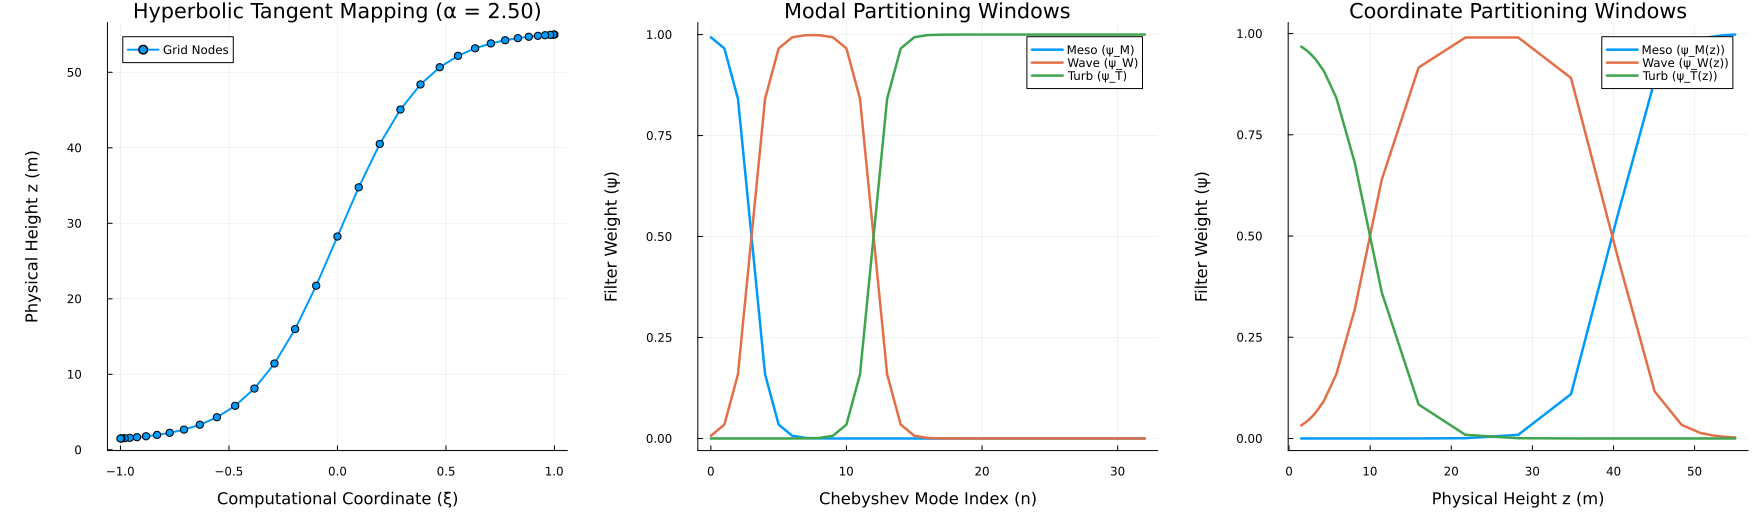
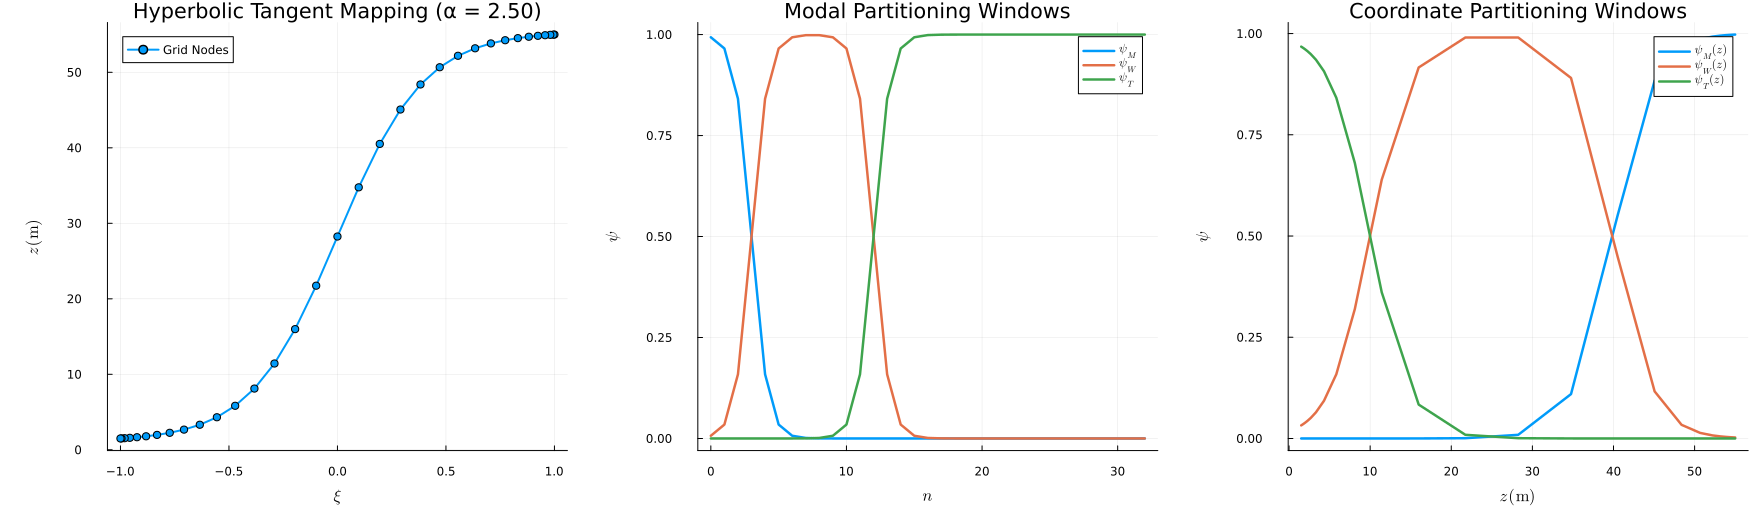
workable

diff --git a/drafts/critique.md b/drafts/critique.md
@@ -1,0 +1,24 @@
+The latest draft of David England’s manuscript—**"Metric-Consistent Spectral Finite Element Decomposition of Stable Boundary Layer Regimes"** (dated June 9, 2026)—represents a significant advancement in mathematical rigor and physical grounding compared to earlier versions. By incorporating feedback from previous critiques, England has transitioned the framework from a diagnostic curve-fitting procedure into a robust computational fluid dynamics (CFD) methodology.
+
+The following critique highlights the strengths of the latest draft and identifies remaining areas where a reviewer or committee member may still probe for further evidence.
+
+### 1. Key Advancements and Strengths
+The latest draft successfully addresses several previously identified "mathematical gaps":
+
+*   **Formalization of $D_{\mathrm{eff}}$ and Ozmidov Scaling:** England has established a direct physical bridge between the information-theoretic **Effective Modal Dimension ($D_{\mathrm{eff}}$)** and the **Ozmidov buoyancy scale ($L_O$)**. He derives a proportionality where $D_{\mathrm{eff}}$ undergoes an "informational collapse" when buoyancy forces restrict physical eddies below the grid's resolution. This provides the "mathematical clincher" needed to justify regime transitions.
+*   **Coordinate-Agnostic Interfacing:** The formal derivation of the **Virtual Tower Interfacing Operator ($\mathcal{P}_{VT}$)** is a major improvement. It mathematically proves that the framework can ingest scattered measurements from 1D towers, 3D LiDAR volumes, and unstructured NWP meshes while preserving the **topological invariance** of spectral signatures like $D_{\mathrm{eff}}$.
+*   **Scale-Invariant Rank Criterion:** Responding to concerns about arbitrary numerical thresholds, the draft now utilizes a **machine-epsilon-relative truncation criterion** ($\epsilon \approx 2.22 \times 10^{-13}$). This ensures that "nullspace modes" (formerly "ghost modes") are removed based on a principled L-curve logic rather than hard-coded values.
+*   **Philosophical Reframing:** The draft has been softened to refer to a "**local one-dimensional Riemannian metric**" rather than claiming the entire boundary layer is a manifold. This avoids unnecessary conflict with differential geometers regarding the absence of higher-dimensional curvature tensors.
+
+### 2. Remaining Vulnerabilities and Critiques
+
+*   **Dimensional Constraint (The "Single Tower" Blindness):** Despite the transition to coordinate-agnostic math, the current analysis remains restricted to a **single tower column**. As such, it cannot directly recover horizontal phase propagation or horizontal coherence length scales of submesoscale motions. Future validation against horizontal LiDAR scanning planes is necessary to prove the framework captures 3D structures.
+*   **Universality of the Stretching Parameter ($\alpha_s$):** The hyperbolic compactification depends on a grid-stretching parameter (fixed at $\alpha_s = 2.500$ in the latest draft). Critics may argue that this is a **calibration choice** and should be stress-tested across more diverse campaign environments—such as the Arctic or midlatitudes—before it is treated as a universal constant.
+*   **Forward-Predictive "Gap":** While the draft introduces a **2/3-rule spectral anti-aliasing filter** to support forward-predictive models, the work remains primarily **diagnostic**. Transitioning to a fully transient nonlinear solver will require addressing the "grid-topology mismatch" between pseudospectral expansions and standard model $\eta$-coordinates.
+*   **Empirical vs. Analytical Attractors:** The core proposition regarding lower-dimensional manifolds has been correctly softened from a "Main Theorem" to a "**Revised Proposition**" based on numerical evidence. However, a mathematical reviewer may still demand more rigorous proof through **Inertial Manifold Theory** or Lyapunov exponents to establish that these attractors are a fundamental property of the Boussinesq equations rather than an empirical observation.
+
+### 3. Suggested Improvements for Final Submission
+
+*   **Error Bounds for Agnosticism:** While the state representation is coordinate-agnostic, the **estimation uncertainty** still depends on hardware geometry. Adding an explicit "Agnosticism Clause" that notes how spatial gaps or clustering in the input data alter the singular value spectrum would strengthen the manuscript's statistical integrity.
+*   **Visualizing the Attractor:** The manuscript would benefit from a figure showing the **3D trajectory of fluid states** in physical space compared to their projection in Chebyshev coefficient space. This would visually demonstrate the "geometric collapse" that $D_{\mathrm{eff}}$ measures.
+*   **Energy Tracking:** Because smooth spectral masks are applied to coefficients rather than orthogonal eigenvectors, global energy is **not strictly additive**. The draft should more explicitly emphasize the need to track **off-diagonal interaction components** $(\langle \mathbf{c}^{(j)}, \mathbf{M} \mathbf{c}^{(k)} \rangle \neq 0)$, as these terms physically represent the coupled wave-turbulence interaction regions highlighted by Sun et al. (2015).